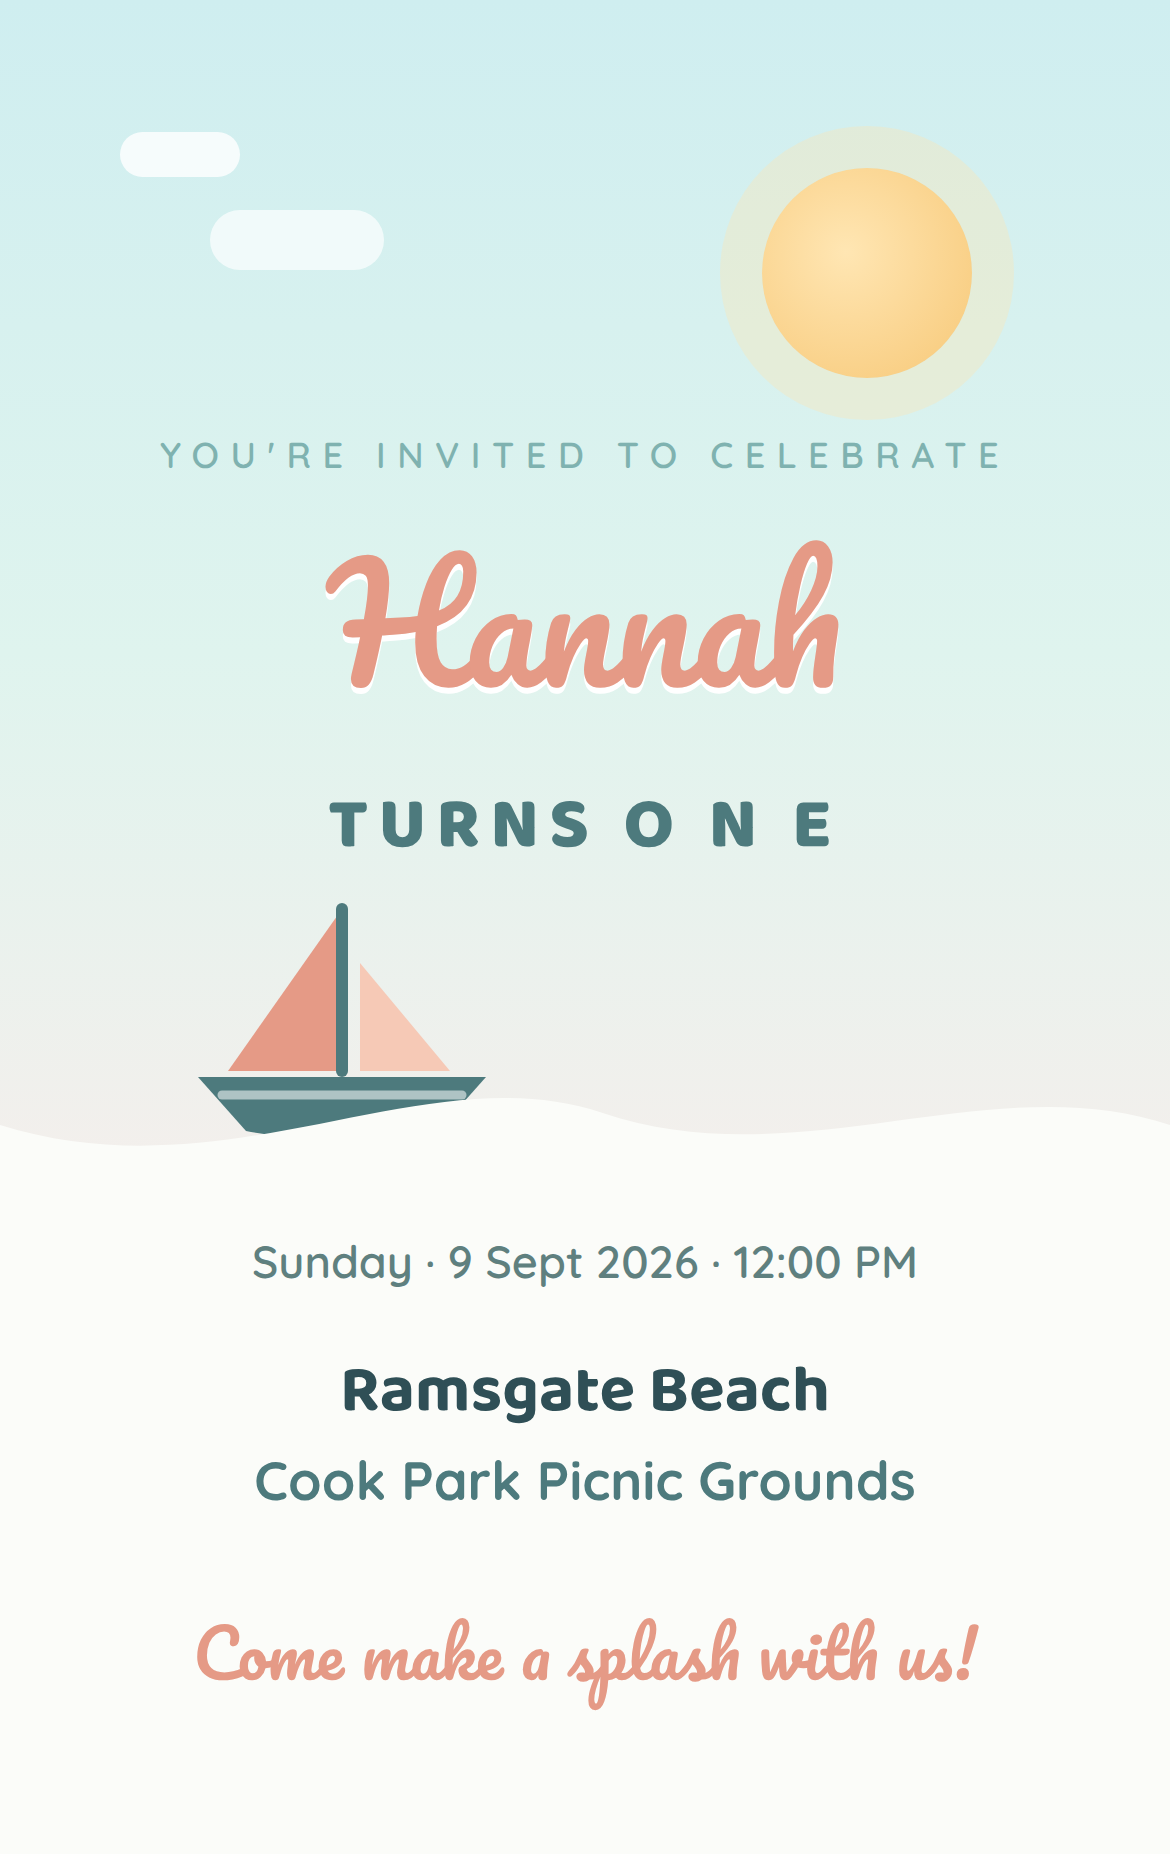
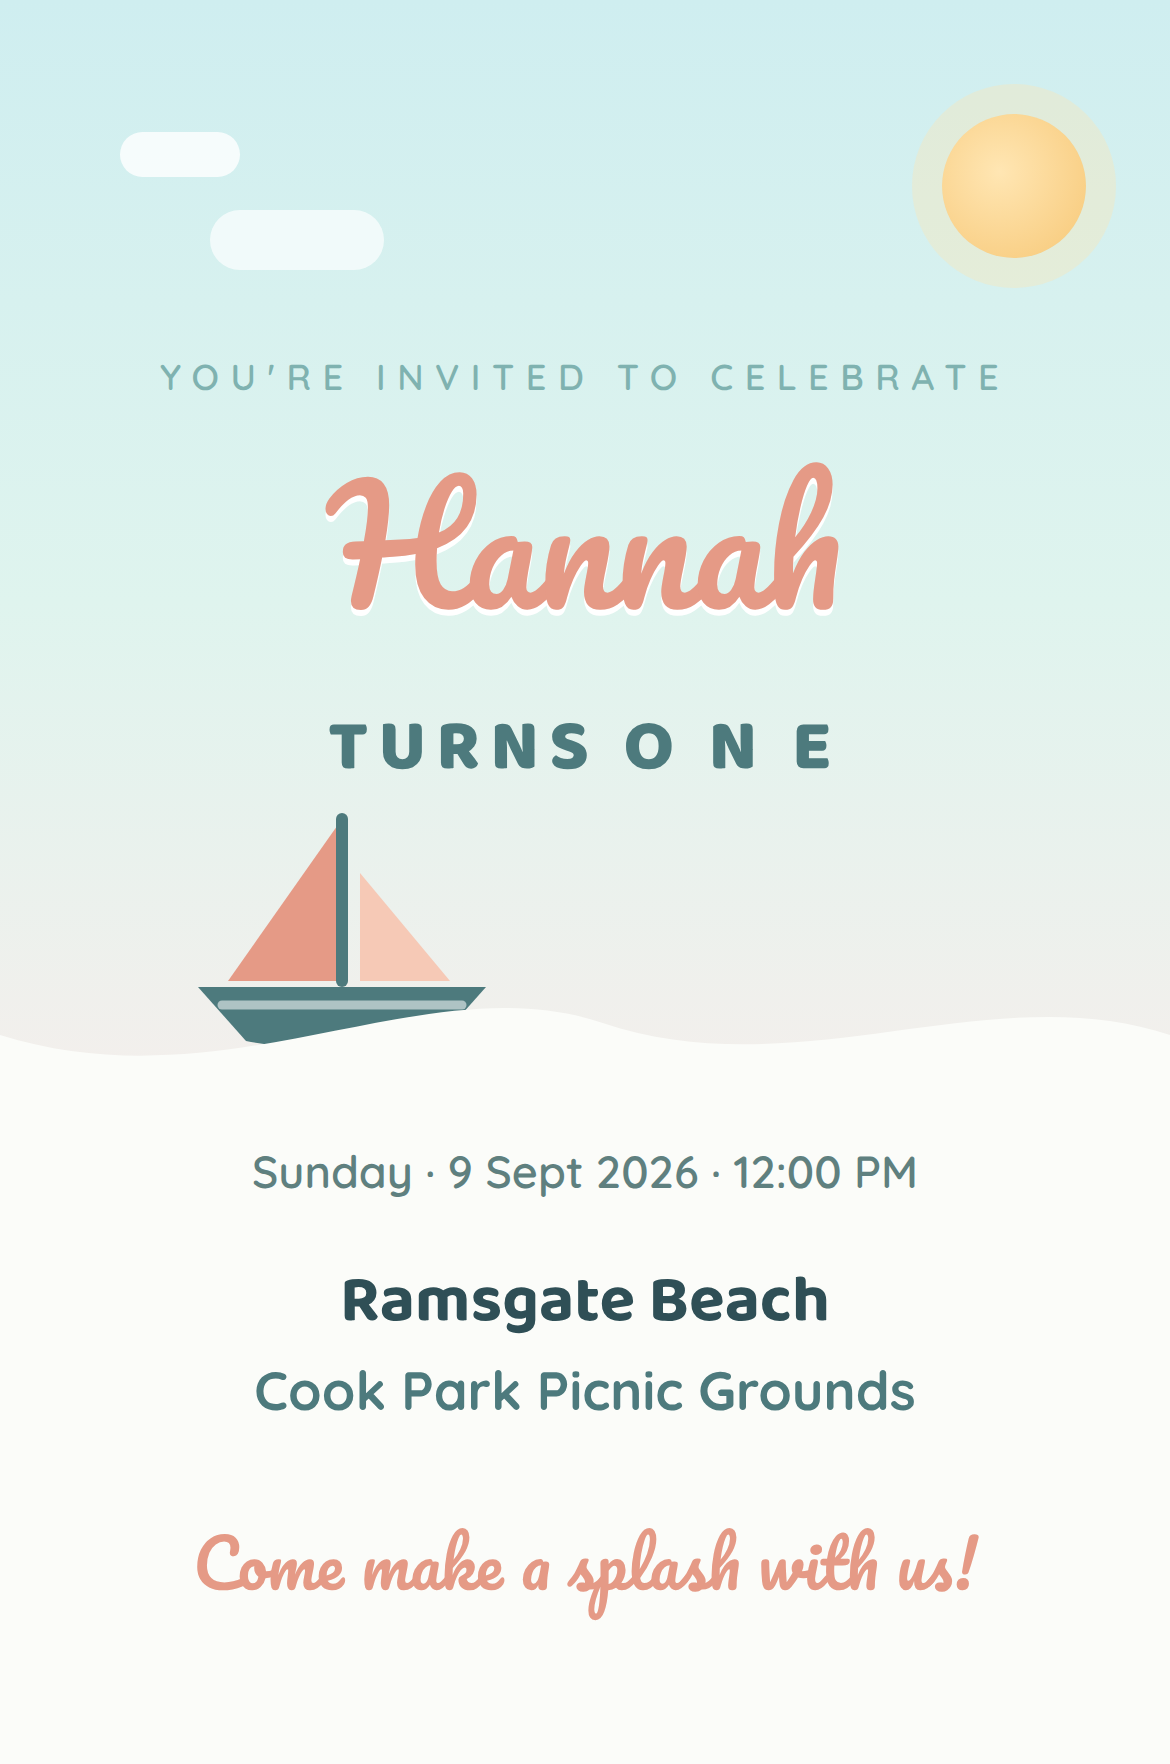
Shrink the sun and tighten the sky so the hero feels less top-heavy
Sun 70px -> 58px (48px on mobile) with a proportionally smaller glow
ring, and sky padding trimmed on both breakpoints. Mobile keeps more
bottom padding than a straight scale-down would give, otherwise the
sailboat mast collides with 'TURNS ONE'.

Renders regenerated to match.

diff --git a/index.html b/index.html
@@ -29,7 +29,8 @@
     * { animation: none !important; }
   }
   @media (max-width: 560px) {
-    .dc-sky { padding: 126px 24px 100px !important; }
+    .dc-sky { padding: 100px 24px 96px !important; }
+    .dc-sun { width: 48px !important; height: 48px !important; top: 38px !important; right: 28px !important; box-shadow: 0 0 0 10px rgba(255,230,179,.35) !important; }
     .dc-name { font-size: 52px !important; }
     .dc-body { padding-left: 22px !important; padding-right: 22px !important; }
     .dc-card { border-radius: 26px !important; }
@@ -43,8 +44,8 @@
     <div class="dc-card" style="border-radius: 36px; overflow: hidden; background: #fbfcf9; box-shadow: 0 34px 80px -34px rgba(47,79,86,.55); position: relative;">
 
       <!-- sky hero -->
-      <div class="dc-sky" style="position: relative; padding: 148px 52px 128px; background: linear-gradient(180deg, #cfeef0 0%, #dff4ee 55%, #f4efec 100%); text-align: center; overflow: hidden;">
-        <div style="position:absolute; top:56px; right:66px; width:70px; height:70px; border-radius:50%; background: radial-gradient(circle at 40% 40%, #ffe6b3, #f7c877); box-shadow:0 0 0 14px rgba(255,230,179,.35); animation: floaty 6s ease-in-out infinite;"></div>
+      <div class="dc-sky" style="position: relative; padding: 120px 52px 104px; background: linear-gradient(180deg, #cfeef0 0%, #dff4ee 55%, #f4efec 100%); text-align: center; overflow: hidden;">
+        <div class="dc-sun" style="position:absolute; top:48px; right:60px; width:58px; height:58px; border-radius:50%; background: radial-gradient(circle at 40% 40%, #ffe6b3, #f7c877); box-shadow:0 0 0 12px rgba(255,230,179,.35); animation: floaty 6s ease-in-out infinite;"></div>
         <div style="position:absolute; top:44px; left:40px; width:40px; height:15px; border-radius:999px; background:#ffffffcc; animation: drift 9s ease-in-out infinite alternate;"></div>
         <div style="position:absolute; top:70px; left:70px; width:58px; height:20px; border-radius:999px; background:#ffffffaa; animation: drift 12s ease-in-out infinite alternate;"></div>
 
